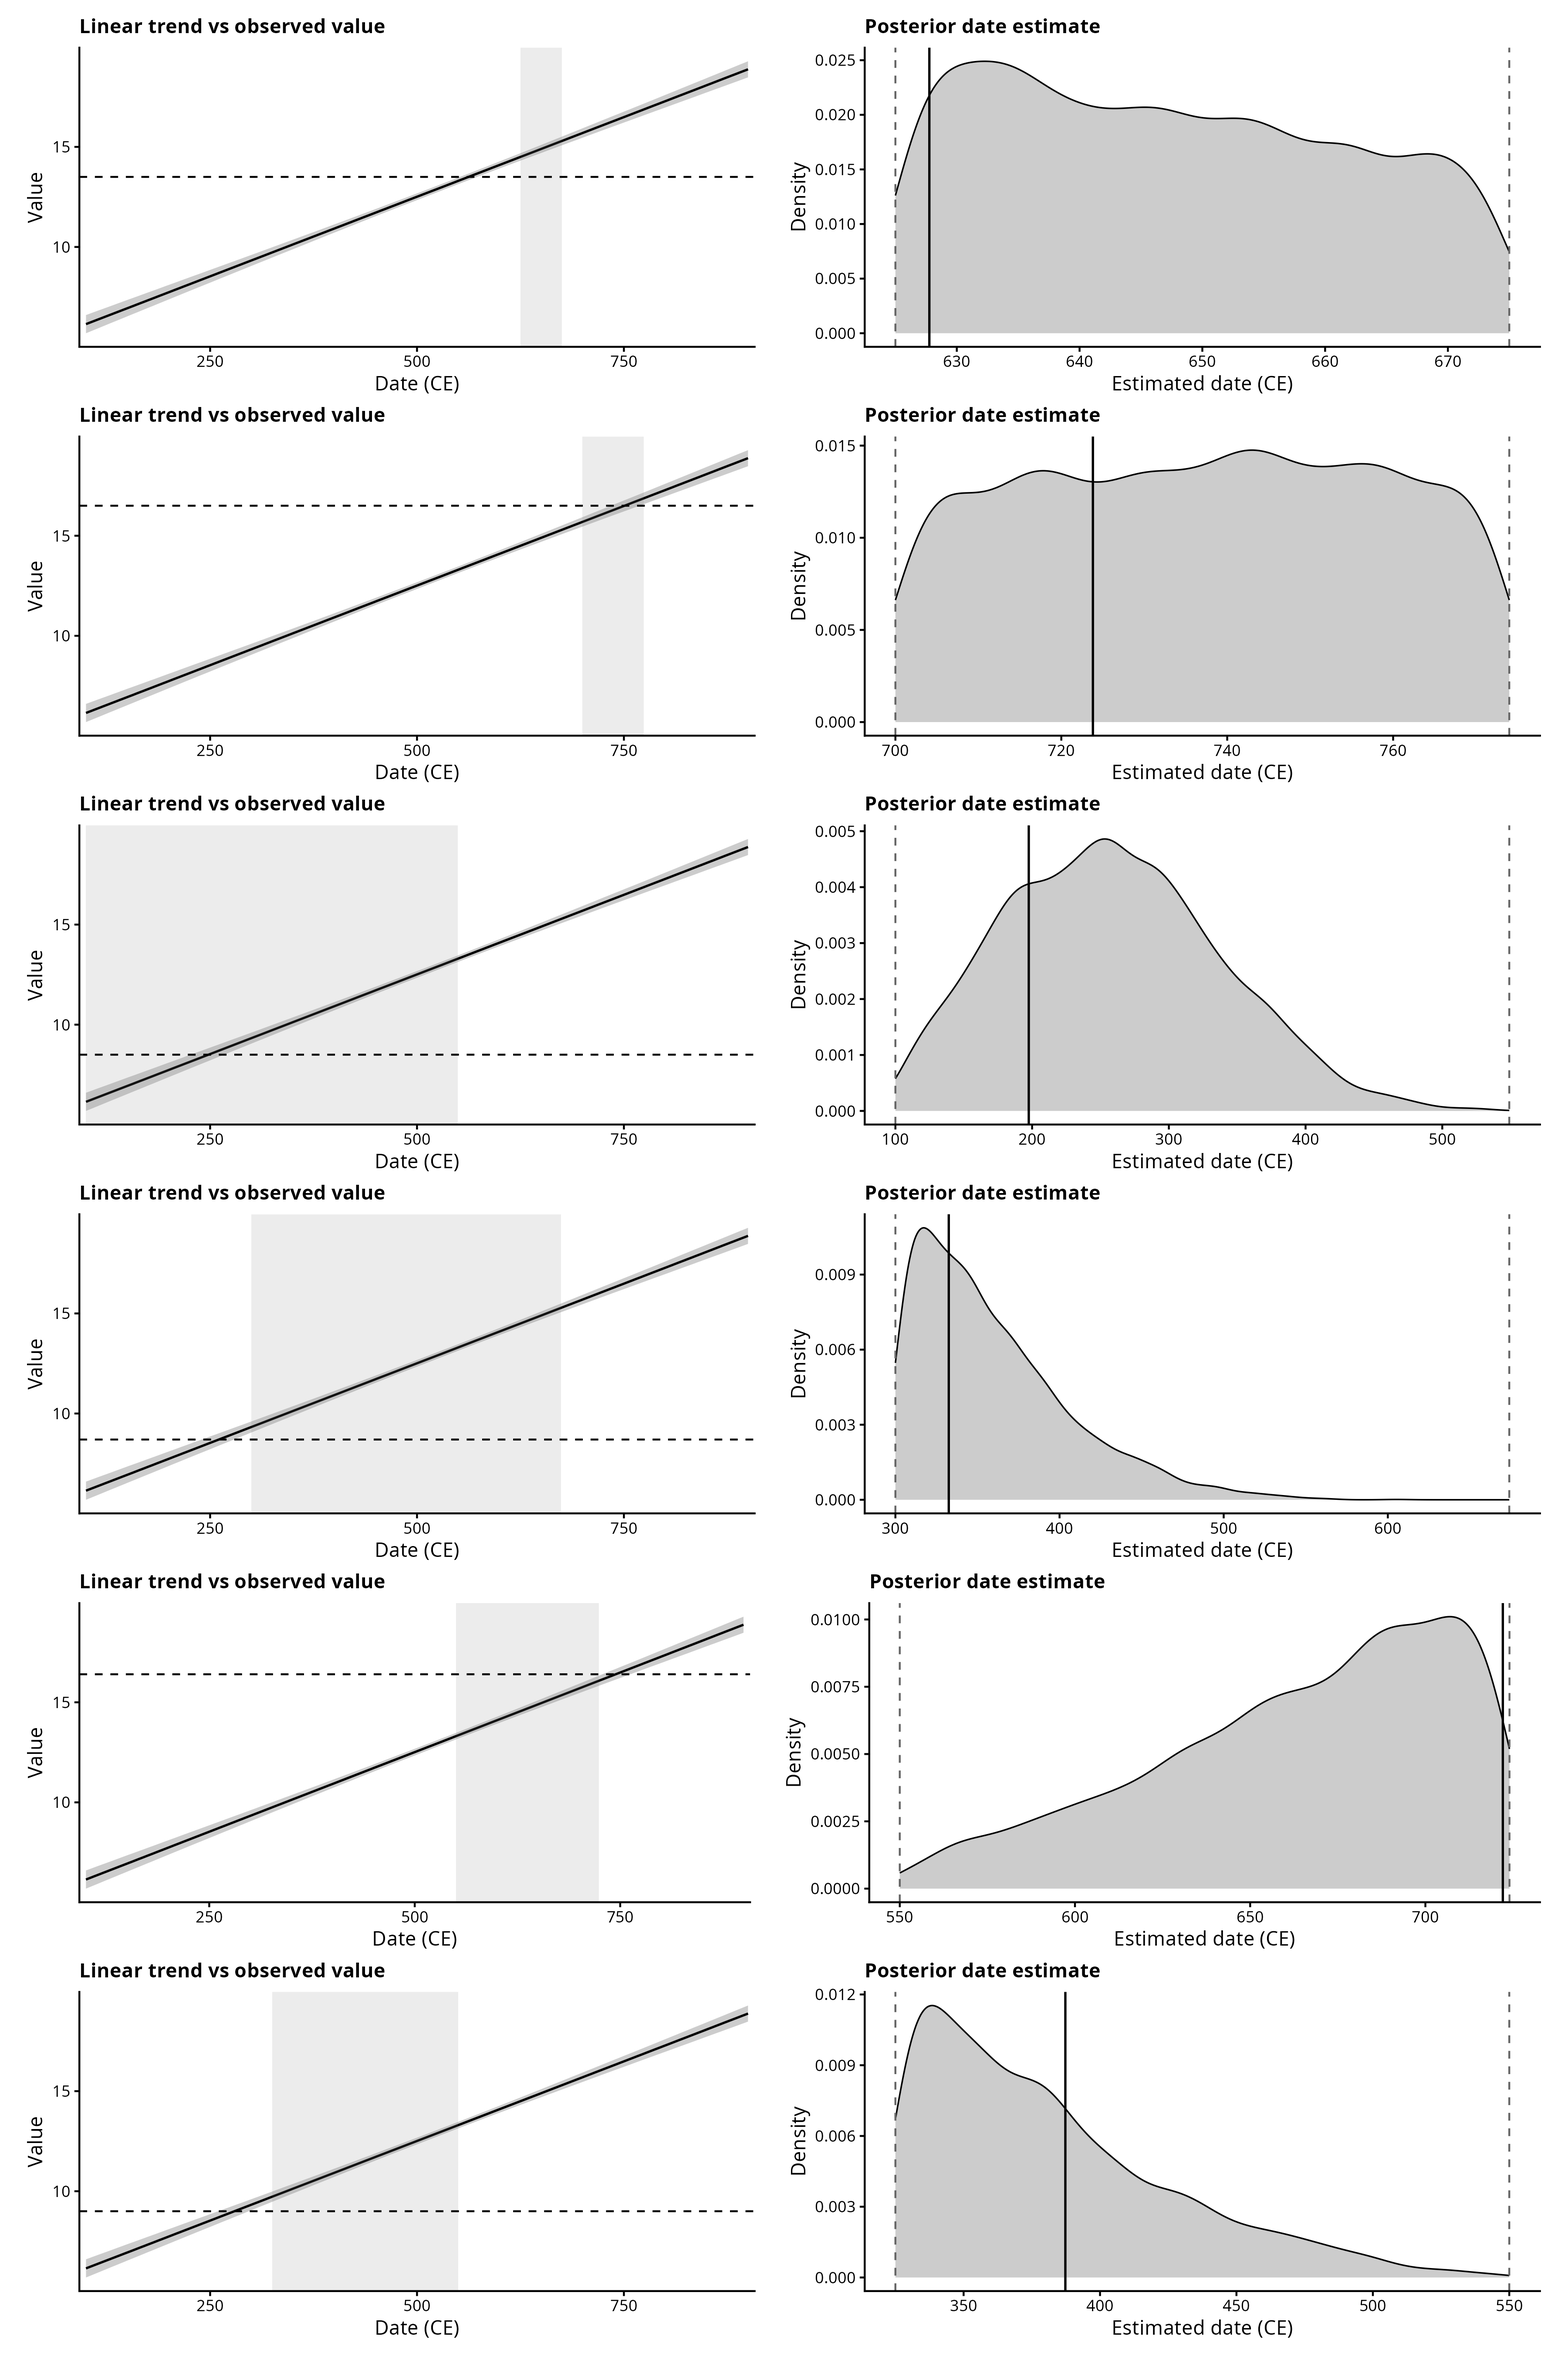
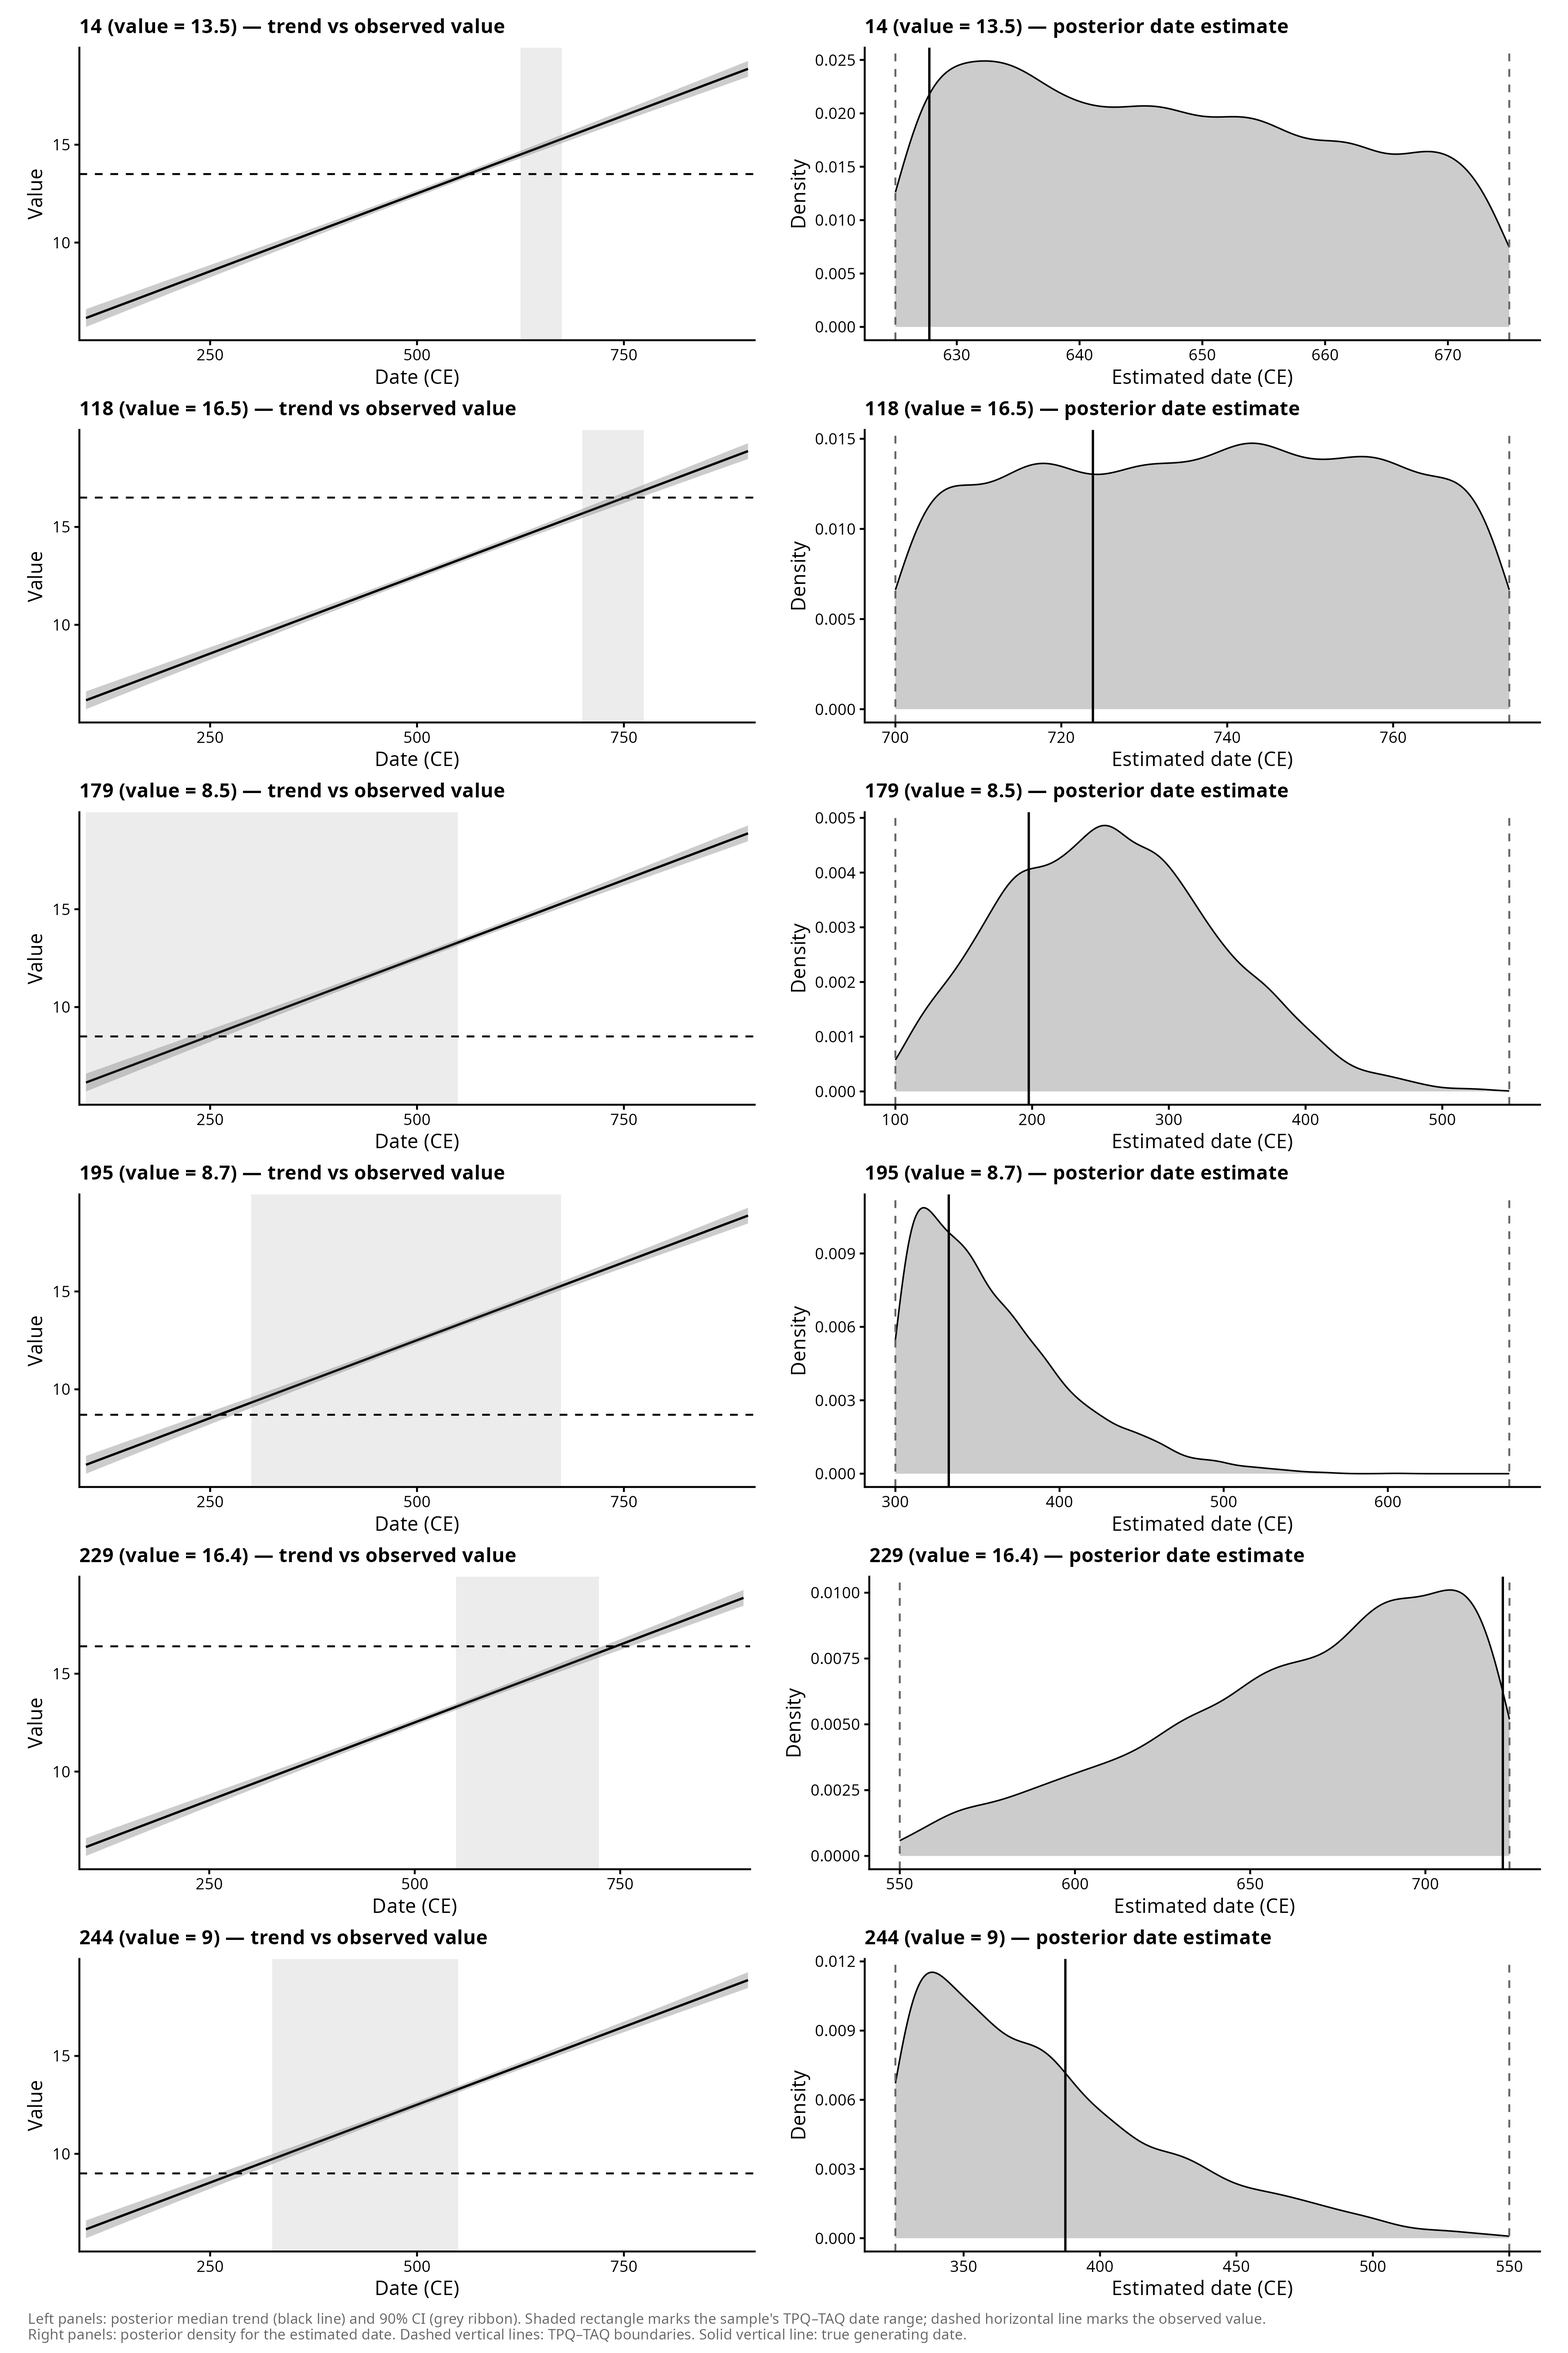
Adapted LM from MSCA tests

diff --git a/Simulations/Sim_Linear/README.md b/Simulations/Sim_Linear/README.md
@@ -29,3 +29,11 @@ Panel **A** shows the recovered trend (median and 50%/90% credible intervals) ag
 <p align="center">
 <img src="figures/model_results_panel.png" height="700" text-align="center"/>
 </p>
+
+## Individual sample diagnostics
+
+Per-sample diagnostic panels for a random subset of observations. The left panel shows the posterior trend (median and 90% CI) with the sample's observed value (dashed horizontal line) and TPQ–TAQ date range (shaded rectangle). The right panel shows the posterior density for the estimated date, with dashed vertical lines for the TPQ–TAQ boundaries and a solid vertical line for the true generating date.
+
+<p align="center">
+<img src="figures/individual_date_posteriors.png" height="900" text-align="center"/>
+</p>
